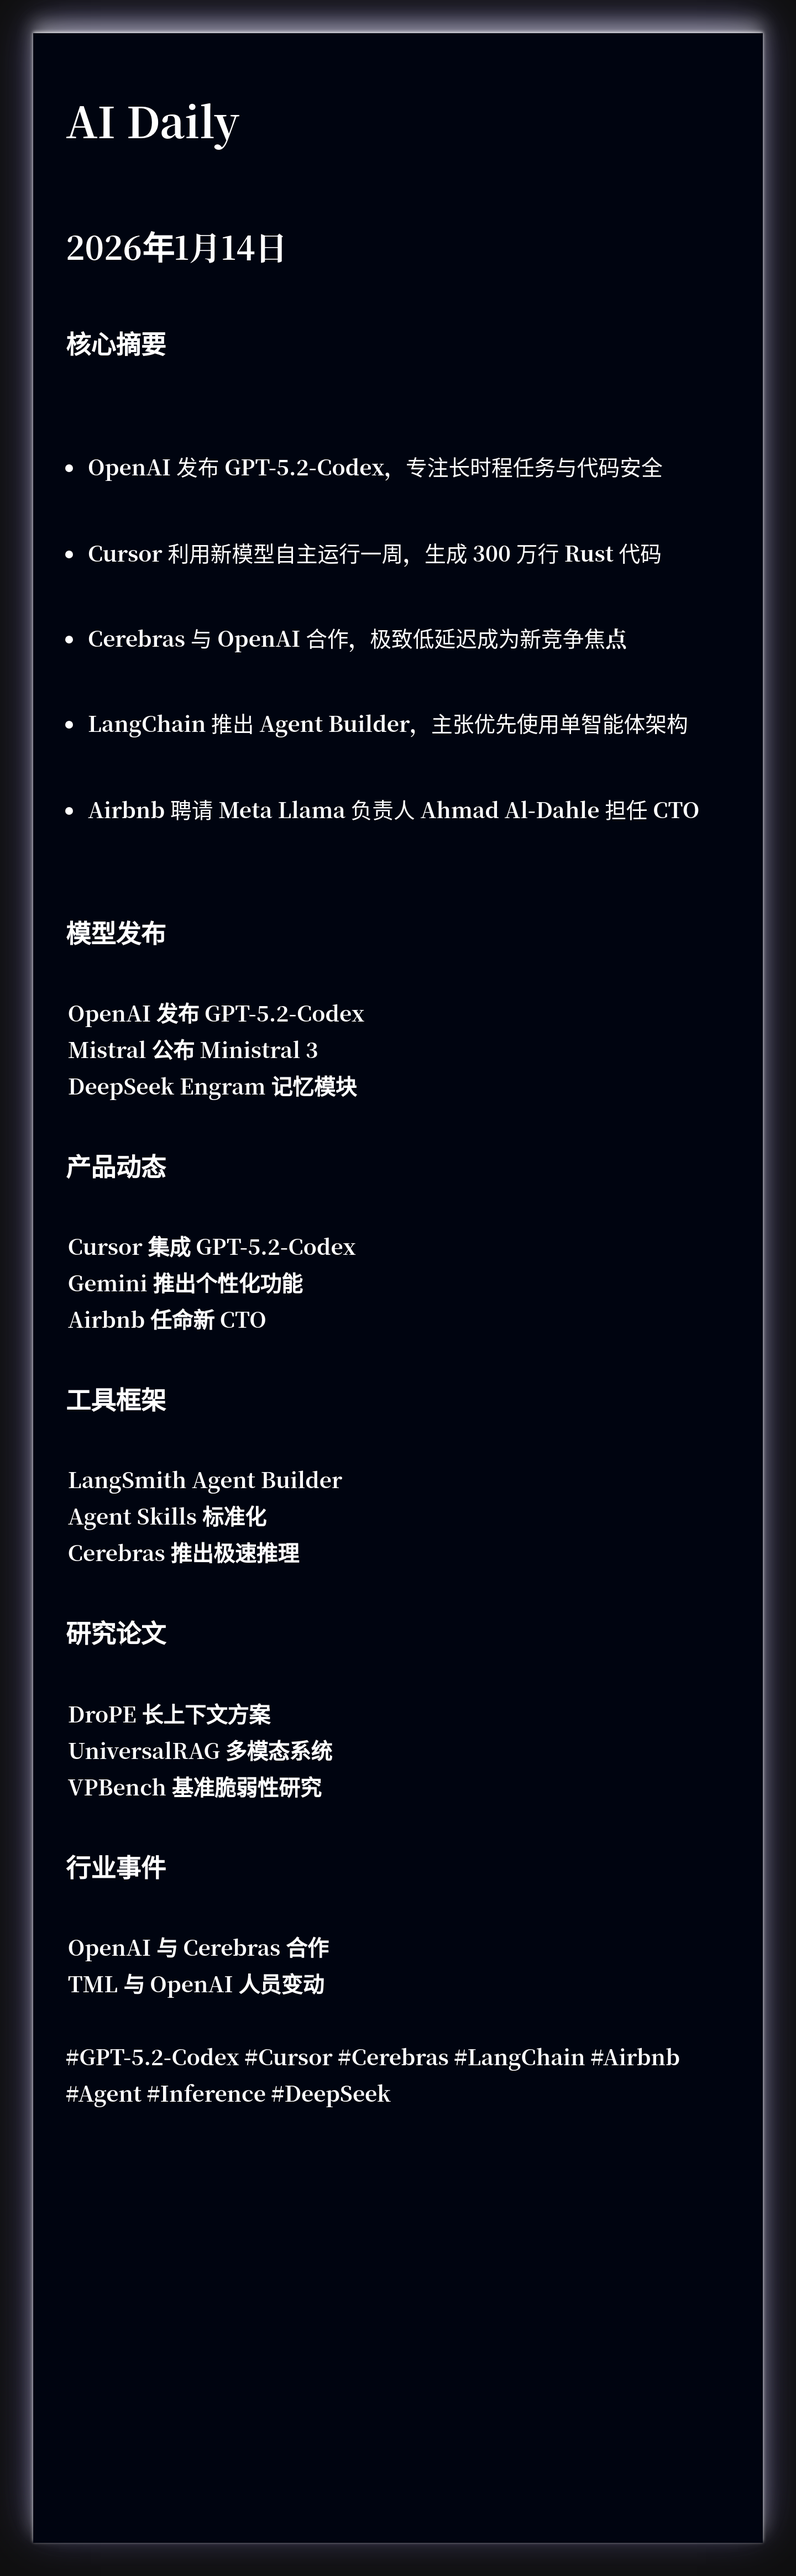
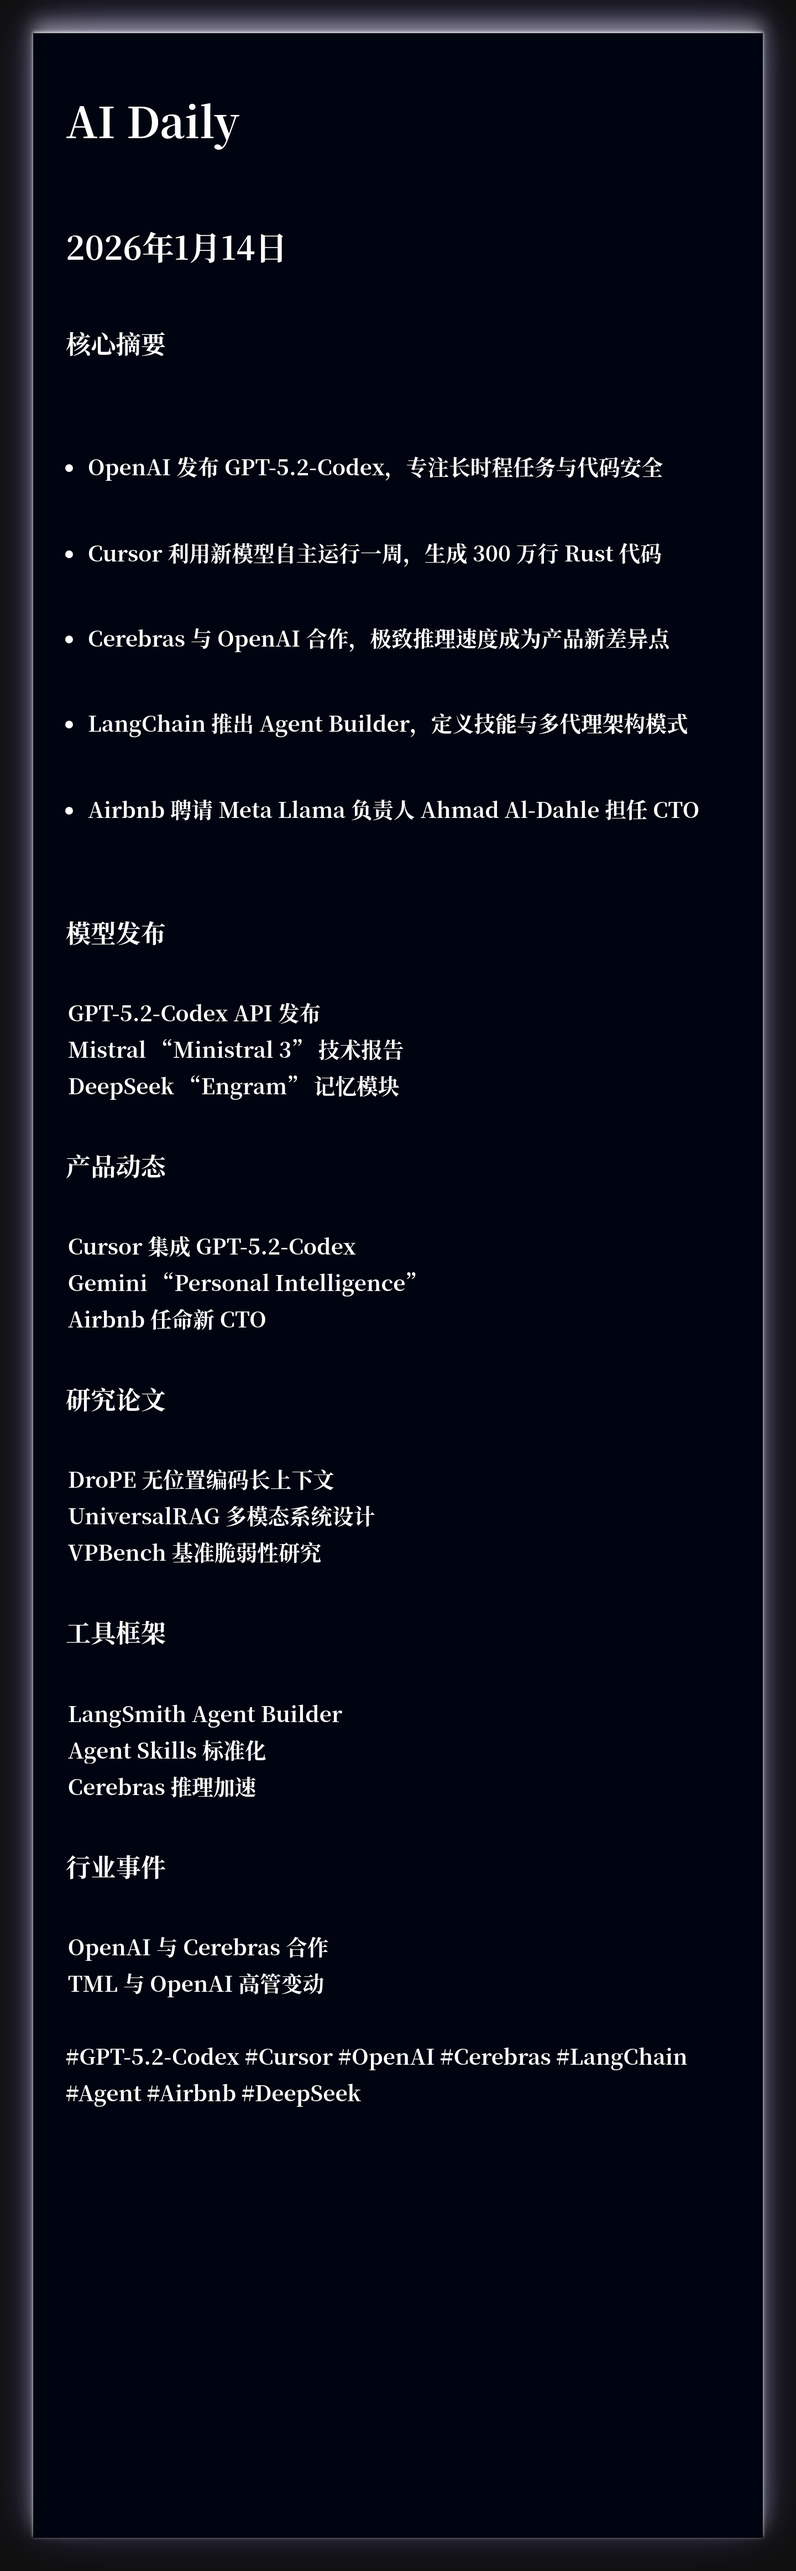
🤖 Auto update AI Daily - {{ date }} b58e34f605beb30b96599d75a3c31f3c8126fb10

diff --git a/2026-01-14.html b/2026-01-14.html
@@ -5,7 +5,7 @@
     <meta name="viewport" content="width=device-width, initial-scale=1.0">
     <title>AI Daily · 2026年1月14日 星期三</title>
     <meta name="description" content="每日 AI 前沿资讯，智能分类，快速掌握核心动态">
-    <meta name="keywords" content="GPT-5.2-Codex, Cursor, Cerebras, LangChain, Airbnb, Agent, Inference, DeepSeek, Mistral, AI, 人工智能, 机器学习, 深度学习, 资讯, 日报">
+    <meta name="keywords" content="GPT-5.2-Codex, Cursor, OpenAI, Cerebras, LangChain, Agent, Airbnb, DeepSeek, Mistral, AI, 人工智能, 机器学习, 深度学习, 资讯, 日报">
     <link rel="stylesheet" href="css/styles.css">
 </head>
 <body data-theme="blue">
@@ -26,8 +26,8 @@
                 <ul class="summary-list">
                 <li class="summary-item">OpenAI 发布 GPT-5.2-Codex，专注长时程任务与代码安全</li>
                 <li class="summary-item">Cursor 利用新模型自主运行一周，生成 300 万行 Rust 代码</li>
-                <li class="summary-item">Cerebras 与 OpenAI 合作，极致低延迟成为新竞争焦点</li>
-                <li class="summary-item">LangChain 推出 Agent Builder，主张优先使用单智能体架构</li>
+                <li class="summary-item">Cerebras 与 OpenAI 合作，极致推理速度成为产品新差异点</li>
+                <li class="summary-item">LangChain 推出 Agent Builder，定义技能与多代理架构模式</li>
                 <li class="summary-item">Airbnb 聘请 Meta Llama 负责人 Ahmad Al-Dahle 担任 CTO</li>
                 </ul>
             </section>
@@ -43,28 +43,28 @@
 
                 <article class="news-card">
                     <div class="news-card-header">
-                        <h3 class="news-title">OpenAI 发布 GPT-5.2-Codex</h3>
+                        <h3 class="news-title">GPT-5.2-Codex API 发布</h3>
                         <a href="https://twitter.com/OpenAIDevs/status/2011499597169115219" class="item-link" target="_blank" rel="noopener">详情</a>
                     </div>
-                    <p class="news-summary">定位最强长时程编码模型，强调代码漏洞理解能力</p>
+                    <p class="news-summary">OpenAI 推出最强代码模型，专为长时程任务和漏洞挖掘设计</p>
                     <div class="item-tags"><span class="tag">#OpenAI</span> <span class="tag">#GPT-5.2</span> <span class="tag">#Codex</span></div>
                 </article>
 
                 <article class="news-card">
                     <div class="news-card-header">
-                        <h3 class="news-title">Mistral 公布 Ministral 3</h3>
+                        <h3 class="news-title">Mistral "Ministral 3" 技术报告</h3>
                         <a href="https://twitter.com/eliebakouch/status/2011548952676499480" class="item-link" target="_blank" rel="noopener">详情</a>
                     </div>
-                    <p class="news-summary">采用剪枝与蒸馏技术的小型模型训练配方</p>
-                    <div class="item-tags"><span class="tag">#Mistral</span> <span class="tag">#Ministral</span> <span class="tag">#Distillation</span></div>
+                    <p class="news-summary">强调剪枝与蒸馏技术，提供具体的层和隐藏维度剪枝启发式方法</p>
+                    <div class="item-tags"><span class="tag">#Mistral</span> <span class="tag">#Pruning</span> <span class="tag">#Distillation</span></div>
                 </article>
 
                 <article class="news-card">
                     <div class="news-card-header">
-                        <h3 class="news-title">DeepSeek Engram 记忆模块</h3>
+                        <h3 class="news-title">DeepSeek "Engram" 记忆模块</h3>
                         <a href="https://twitter.com/LiorOnAI/status/2011468534887469448" class="item-link" target="_blank" rel="noopener">详情</a>
                     </div>
-                    <p class="news-summary">提出 MoE 计算与稀疏存储分离的架构设计</p>
+                    <p class="news-summary">提出 MoE 计算与稀疏存储分离，通过哈希实现 O(1) 查找</p>
                     <div class="item-tags"><span class="tag">#DeepSeek</span> <span class="tag">#Memory</span> <span class="tag">#MoE</span></div>
                 </article>
 
@@ -84,16 +84,16 @@
                         <h3 class="news-title">Cursor 集成 GPT-5.2-Codex</h3>
                         <a href="https://twitter.com/cursor_ai/status/2011500027945033904" class="item-link" target="_blank" rel="noopener">详情</a>
                     </div>
-                    <p class="news-summary">展示连续运行一周自主构建浏览器的惊人能力</p>
+                    <p class="news-summary">定位为长时程任务的前沿模型，展示代理自主运行一周构建浏览器</p>
                     <div class="item-tags"><span class="tag">#Cursor</span> <span class="tag">#IDE</span> <span class="tag">#Agent</span></div>
                 </article>
 
                 <article class="news-card">
                     <div class="news-card-header">
-                        <h3 class="news-title">Gemini 推出个性化功能</h3>
+                        <h3 class="news-title">Gemini "Personal Intelligence"</h3>
                         <a href="https://twitter.com/Google/status/2011473056921706852" class="item-link" target="_blank" rel="noopener">详情</a>
                     </div>
-                    <p class="news-summary">连接 Gmail、Photos 等应用提供个人智能服务</p>
+                    <p class="news-summary">Google 连接 Gmail、Photos 等应用推出个性化功能，强调隐私控制</p>
                     <div class="item-tags"><span class="tag">#Google</span> <span class="tag">#Gemini</span> <span class="tag">#Personalization</span></div>
                 </article>
 
@@ -102,8 +102,46 @@
                         <h3 class="news-title">Airbnb 任命新 CTO</h3>
                         <a href="https://twitter.com/Ahmad_Al_Dahle/status/2011440460821320056" class="item-link" target="_blank" rel="noopener">详情</a>
                     </div>
-                    <p class="news-summary">Meta Llama 项目负责人 Ahmad Al-Dahle 加盟 Airbnb</p>
-                    <div class="item-tags"><span class="tag">#Airbnb</span> <span class="tag">#Meta</span> <span class="tag">#CTO</span></div>
+                    <p class="news-summary">前 Meta Llama 负责人 Ahmad Al-Dahle 加入 Airbnb 担任 CTO</p>
+                    <div class="item-tags"><span class="tag">#Airbnb</span> <span class="tag">#CTO</span> <span class="tag">#Meta</span></div>
+                </article>
+
+                </div>
+            </section>
+
+            <section class="category-section">
+                <div class="category-header">
+                    <span class="category-icon">📚</span>
+                    <h2 class="category-title">研究论文</h2>
+                    <span class="category-count">3</span>
+                </div>
+                <div class="news-grid">
+
+                <article class="news-card">
+                    <div class="news-card-header">
+                        <h3 class="news-title">DroPE 无位置编码长上下文</h3>
+                        <a href="https://twitter.com/gabriberton/status/2011326182986564090" class="item-link" target="_blank" rel="noopener">详情</a>
+                    </div>
+                    <p class="news-summary">研究显示移除 RoPE 并微调可在保持性能同时改善长上下文行为</p>
+                    <div class="item-tags"><span class="tag">#RoPE</span> <span class="tag">#Long Context</span> <span class="tag">#Fine-tuning</span></div>
+                </article>
+
+                <article class="news-card">
+                    <div class="news-card-header">
+                        <h3 class="news-title">UniversalRAG 多模态系统设计</h3>
+                        <a href="https://twitter.com/omarsar0/status/2011442693134754243" class="item-link" target="_blank" rel="noopener">详情</a>
+                    </div>
+                    <p class="news-summary">提出模态感知路由和跨模态检索，避免强制统一嵌入空间</p>
+                    <div class="item-tags"><span class="tag">#RAG</span> <span class="tag">#Multimodal</span> <span class="tag">#Retrieval</span></div>
+                </article>
+
+                <article class="news-card">
+                    <div class="news-card-header">
+                        <h3 class="news-title">VPBench 基准脆弱性研究</h3>
+                        <a href="https://twitter.com/lisabdunlap/status/2011521499182875116" class="item-link" target="_blank" rel="noopener">详情</a>
+                    </div>
+                    <p class="news-summary">指出微小的视觉变化（如红蓝标记）即可重排 VLM 排行榜</p>
+                    <div class="item-tags"><span class="tag">#Benchmark</span> <span class="tag">#VLM</span> <span class="tag">#Evaluation</span></div>
                 </article>
 
                 </div>
@@ -122,7 +160,7 @@
                         <h3 class="news-title">LangSmith Agent Builder</h3>
                         <a href="https://twitter.com/LangChain/status/2011501888735494184" class="item-link" target="_blank" rel="noopener">详情</a>
                     </div>
-                    <p class="news-summary">将智能体视为文件系统，支持技能与子代理管理</p>
+                    <p class="news-summary">将代理视为文件系统，支持技能/MCP/子代理及内置记忆</p>
                     <div class="item-tags"><span class="tag">#LangChain</span> <span class="tag">#Agent</span> <span class="tag">#Builder</span></div>
                 </article>
 
@@ -131,55 +169,17 @@
                         <h3 class="news-title">Agent Skills 标准化</h3>
                         <a href="https://twitter.com/_philschmid/status/2011345054343053370" class="item-link" target="_blank" rel="noopener">详情</a>
                     </div>
-                    <p class="news-summary">推出跨生态兼容的技能文件夹规范</p>
-                    <div class="item-tags"><span class="tag">#Skills</span> <span class="tag">#Standard</span> <span class="tag">#CLI</span></div>
+                    <p class="news-summary">推出标准化文件夹结构，作为跨生态系统的技能可移植层</p>
+                    <div class="item-tags"><span class="tag">#Skills</span> <span class="tag">#MCP</span> <span class="tag">#Standardization</span></div>
                 </article>
 
                 <article class="news-card">
                     <div class="news-card-header">
-                        <h3 class="news-title">Cerebras 推出极速推理</h3>
+                        <h3 class="news-title">Cerebras 推理加速</h3>
                         <a href="https://twitter.com/ArtificialAnlys/status/2011581689567592641" class="item-link" target="_blank" rel="noopener">详情</a>
                     </div>
-                    <p class="news-summary">GLM-4.7 推理速度达 1445 tokens/s，TTFAT 仅 1.6s</p>
+                    <p class="news-summary">实测 GLM-4.7 输出速度达 1445 tokens/s，强调速度即产品</p>
                     <div class="item-tags"><span class="tag">#Cerebras</span> <span class="tag">#Inference</span> <span class="tag">#Speed</span></div>
-                </article>
-
-                </div>
-            </section>
-
-            <section class="category-section">
-                <div class="category-header">
-                    <span class="category-icon">📚</span>
-                    <h2 class="category-title">研究论文</h2>
-                    <span class="category-count">3</span>
-                </div>
-                <div class="news-grid">
-
-                <article class="news-card">
-                    <div class="news-card-header">
-                        <h3 class="news-title">DroPE 长上下文方案</h3>
-                        <a href="https://twitter.com/gabriberton/status/2011326182986564090" class="item-link" target="_blank" rel="noopener">详情</a>
-                    </div>
-                    <p class="news-summary">移除位置编码并微调，改善长上下文性能</p>
-                    <div class="item-tags"><span class="tag">#RoPE</span> <span class="tag">#Long Context</span> <span class="tag">#Fine-tuning</span></div>
-                </article>
-
-                <article class="news-card">
-                    <div class="news-card-header">
-                        <h3 class="news-title">UniversalRAG 多模态系统</h3>
-                        <a href="https://twitter.com/omarsar0/status/2011442693134754243" class="item-link" target="_blank" rel="noopener">详情</a>
-                    </div>
-                    <p class="news-summary">提出模态感知路由与跨粒度检索机制</p>
-                    <div class="item-tags"><span class="tag">#RAG</span> <span class="tag">#Multimodal</span> <span class="tag">#Retrieval</span></div>
-                </article>
-
-                <article class="news-card">
-                    <div class="news-card-header">
-                        <h3 class="news-title">VPBench 基准脆弱性研究</h3>
-                        <a href="https://twitter.com/lisabdunlap/status/2011521499182875116" class="item-link" target="_blank" rel="noopener">详情</a>
-                    </div>
-                    <p class="news-summary">发现视觉标记颜色变化可改变模型排行榜排名</p>
-                    <div class="item-tags"><span class="tag">#Benchmark</span> <span class="tag">#VLM</span> <span class="tag">#Evaluation</span></div>
                 </article>
 
                 </div>
@@ -198,17 +198,17 @@
                         <h3 class="news-title">OpenAI 与 Cerebras 合作</h3>
                         <a href="https://twitter.com/cerebras/status/2011531740804964855" class="item-link" target="_blank" rel="noopener">详情</a>
                     </div>
-                    <p class="news-summary">双方达成合作，致力于降低推理延迟提升体验</p>
+                    <p class="news-summary">双方宣布合作伙伴关系，旨在降低延迟并提升 tokens/sec 性能</p>
                     <div class="item-tags"><span class="tag">#OpenAI</span> <span class="tag">#Cerebras</span> <span class="tag">#Partnership</span></div>
                 </article>
 
                 <article class="news-card">
                     <div class="news-card-header">
-                        <h3 class="news-title">TML 与 OpenAI 人员变动</h3>
-                        <a href="https://twitter.com/barret_zoph/status/2011593621435531355" class="item-link" target="_blank" rel="noopener">详情</a>
+                        <h3 class="news-title">TML 与 OpenAI 高管变动</h3>
+                        <a href="https://twitter.com/miramurati/status/2011577319295692801" class="item-link" target="_blank" rel="noopener">详情</a>
                     </div>
-                    <p class="news-summary">Barret Zoph 离任 Thinking Machines Lab 后重返 OpenAI</p>
-                    <div class="item-tags"><span class="tag">#OpenAI</span> <span class="tag">#TML</span> <span class="tag">#Hiring</span></div>
+                    <p class="news-summary">Barret Zoph 离开 Thinking Machines Lab，随后重返 OpenAI</p>
+                    <div class="item-tags"><span class="tag">#OpenAI</span> <span class="tag">#TML</span> <span class="tag">#Leadership</span></div>
                 </article>
 
                 </div>
@@ -216,7 +216,7 @@
 
 
         <footer class="keywords-footer">
-            <p>#关键词: GPT-5.2-Codex | Cursor | Cerebras | LangChain | Airbnb | Agent | Inference | DeepSeek | Mistral</p>
+            <p>#关键词: GPT-5.2-Codex | Cursor | OpenAI | Cerebras | LangChain | Agent | Airbnb | DeepSeek | Mistral</p>
         </footer>
 
         </main>

diff --git a/xiaohongshu/xhs-2026-01-14.html b/xiaohongshu/xhs-2026-01-14.html
@@ -329,7 +329,7 @@
                 <!-- 底部区域 -->
                 <div class="bottom-section">
                     <div class="keywords">
-                        <span class="keyword-tag">#GPT-5.2-Codex</span><span class="keyword-tag">#Cursor</span><span class="keyword-tag">#Cerebras</span><span class="keyword-tag">#LangChain</span><span class="keyword-tag">#Airbnb</span>
+                        <span class="keyword-tag">#GPT-5.2-Codex</span><span class="keyword-tag">#Cursor</span><span class="keyword-tag">#OpenAI</span><span class="keyword-tag">#Cerebras</span><span class="keyword-tag">#LangChain</span>
                     </div>
                     <div class="account-info">
                         <div class="account-name">极客杰尼</div>
